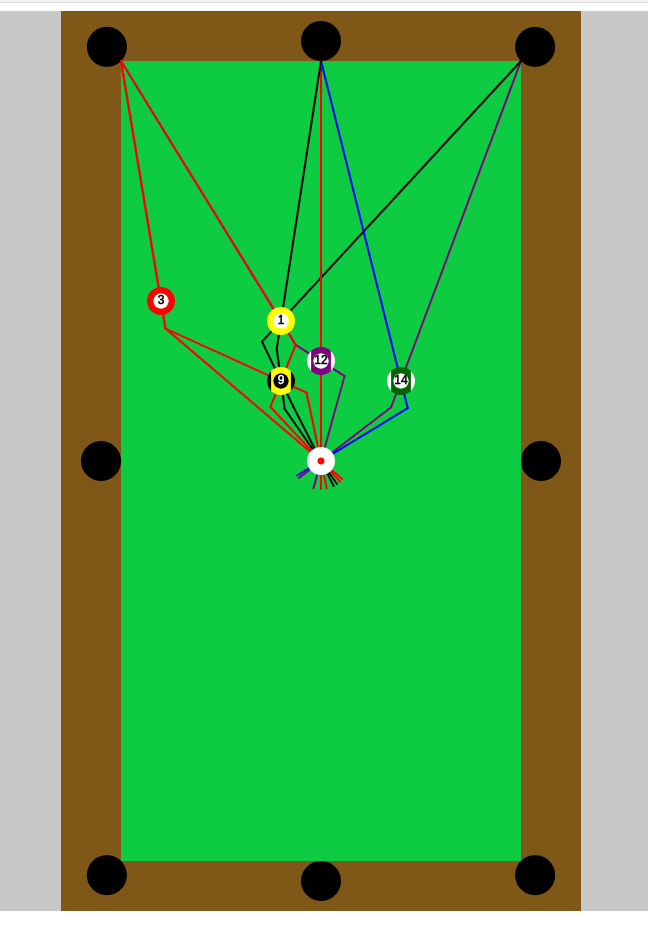
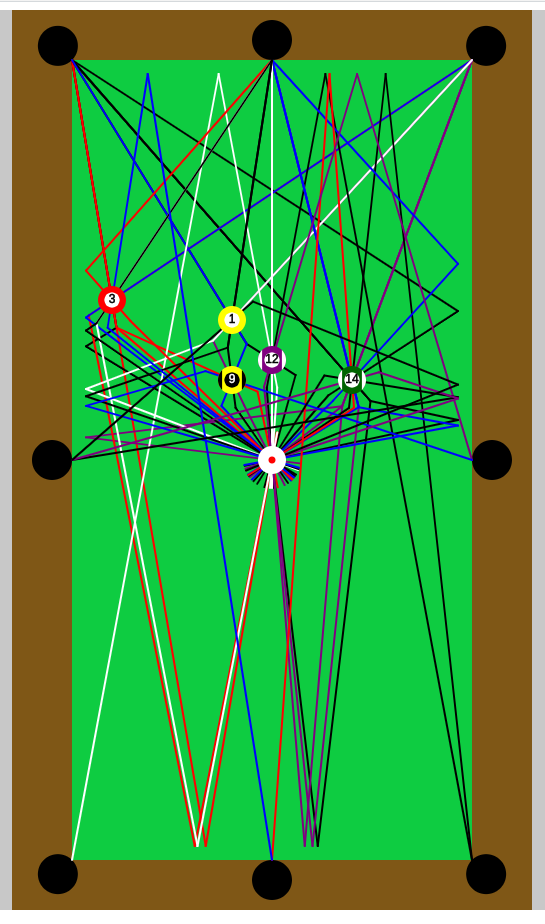
Updated README.md

diff --git a/README.md b/README.md
@@ -1,5 +1,6 @@
 # PyPool-PathFinder  
 Finds possible paths for a taking a shot in a pool setup. Made using [P5js](https://p5js.org/) and Python Flask.  
+Currently it returns all the possible shots, but the final goal is to only give the top N shots we can take.  
 
 ![pool_demo](./assets/screenshot.png)  
 
@@ -13,4 +14,4 @@ Then go to your browser and open `http://localhost:2501/`.
 
 ## Notes  
 - Currently, the input which includes the metadata and the ball positions is hardcoded in the `static/sketch.js` file.  
-- Currently, the PathFinder only supports direct collisions (which can be set to have n-level path), and does not handle wall bounce collisions.  
+- Currently, the PathFinder only supports direct collisions (which can be set to have n-level path), and single wall bounce shots.  
